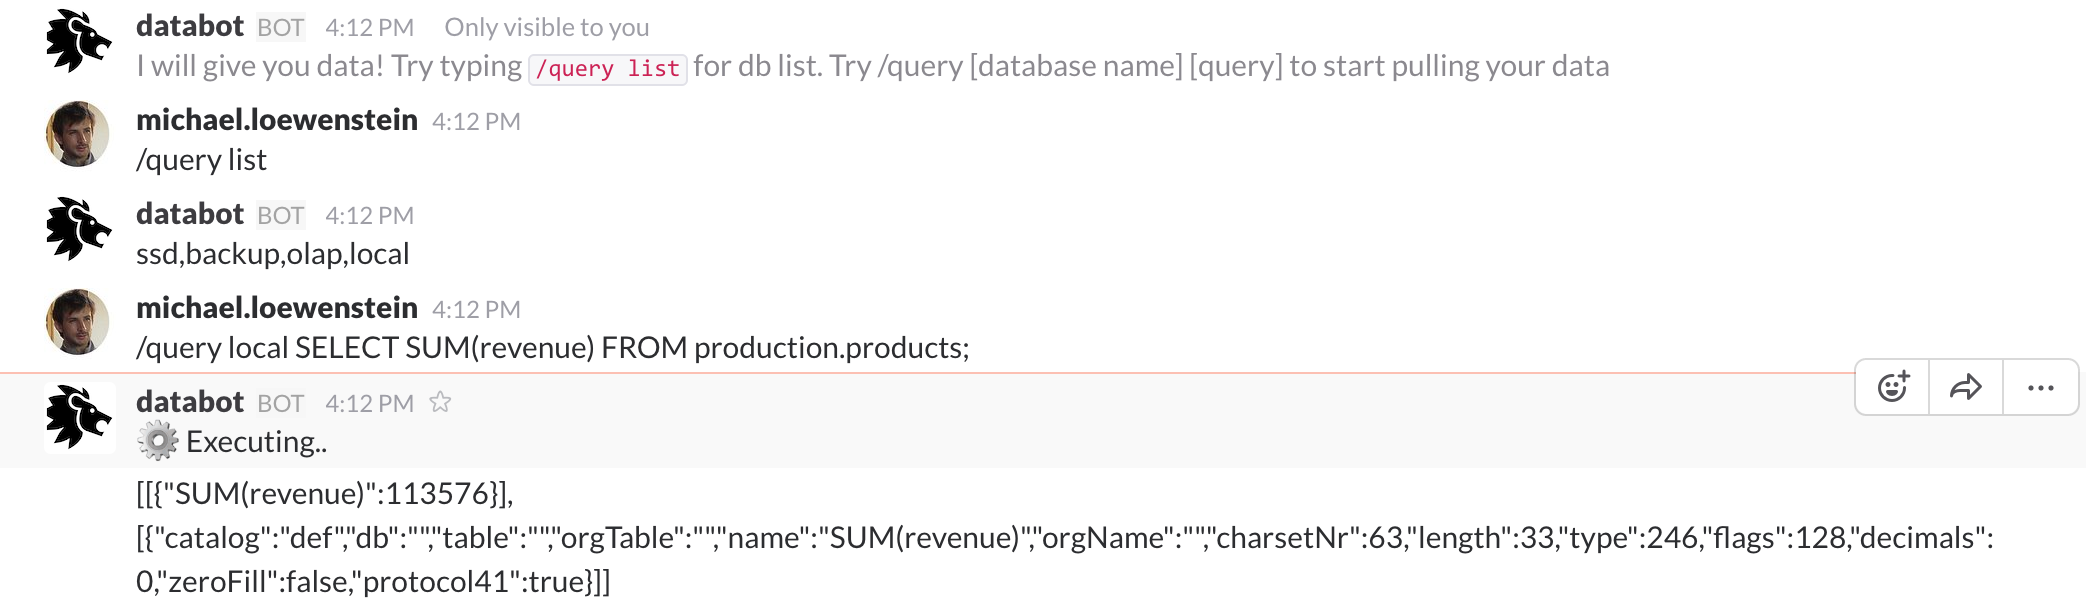
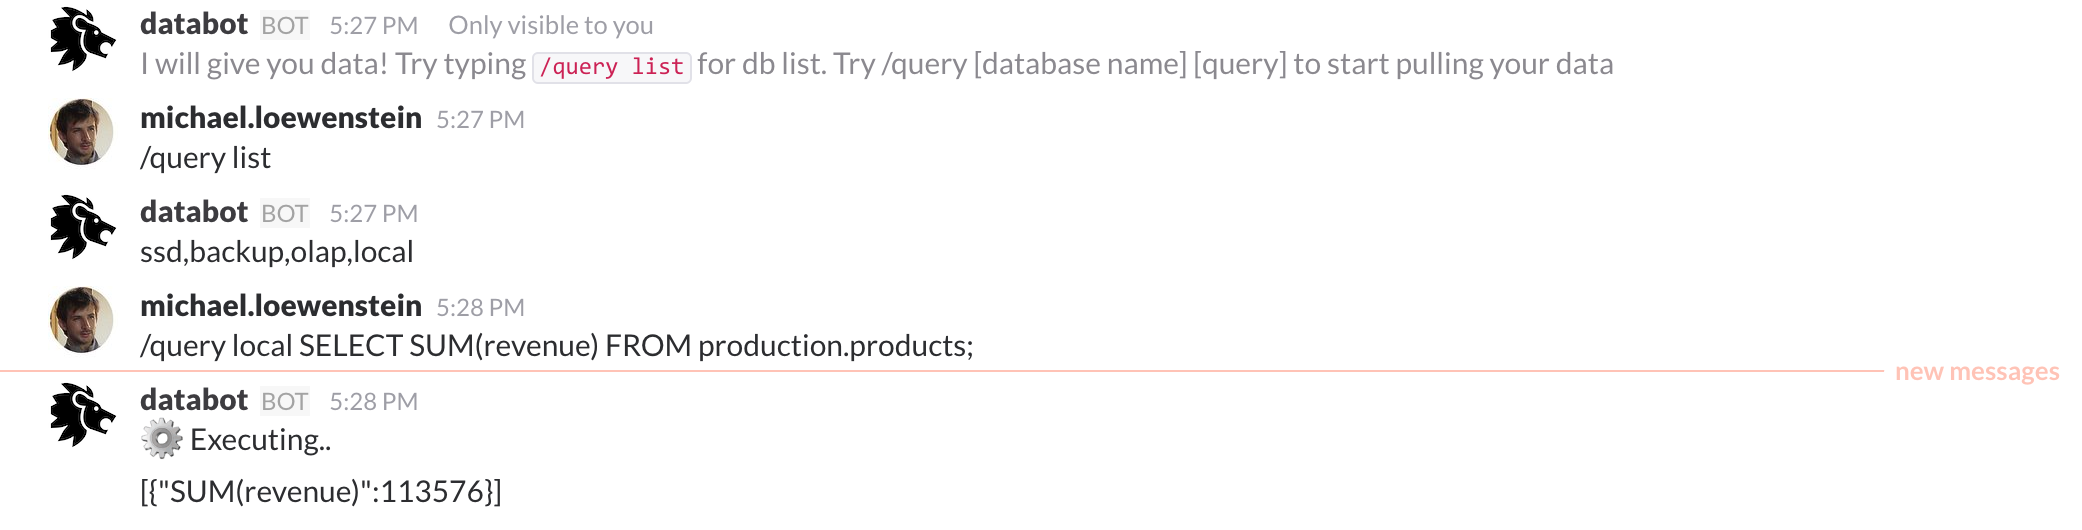
screen_shot

Changed region(s): [[0.0, 0.1509, 0.999, 0.9962], [0.0, 0.0, 0.7805, 0.1811]]

diff --git a/index.js b/index.js
@@ -68,7 +68,7 @@ controller.on('slash_command', function(slashCommand, message) {
                 var dbObj = _.first(_.filter(dbConfig.databases, {
                     'name': dbName
                 }));
-                slashCommand.replyPublic(message, ':gear:' + 'Executing..', function() {
+                slashCommand.replyPublic(message, ':gear:' + ' Executing..', function() {
                 });
 
                 db.execute(dbObj, query).then((result) => {
@@ -76,7 +76,7 @@ controller.on('slash_command', function(slashCommand, message) {
                         slashCommand.replyPublicDelayed(message, JSON.stringify(result.rows), function() {});
                     }
                     else{
-                        slashCommand.replyPublicDelayed(message, JSON.stringify(result), function() {});
+                        slashCommand.replyPublicDelayed(message, JSON.stringify(result[0]), function() {});
                     }
                 }).catch(e => {
                     slashCommand.replyPublicDelayed(message, e.toString(), function() {});
@@ -87,7 +87,7 @@ controller.on('slash_command', function(slashCommand, message) {
             }
             break;
         default:
-            slashCommand.replyPublicDelayed(message, "I'm afraid I don't know how to " + message.command + " yet.");
+            slashCommand.replyPublicDelayed(message, ':dash:' + "I'm afraid I don't know how to " + message.command + " yet.");
 
     }
 });
